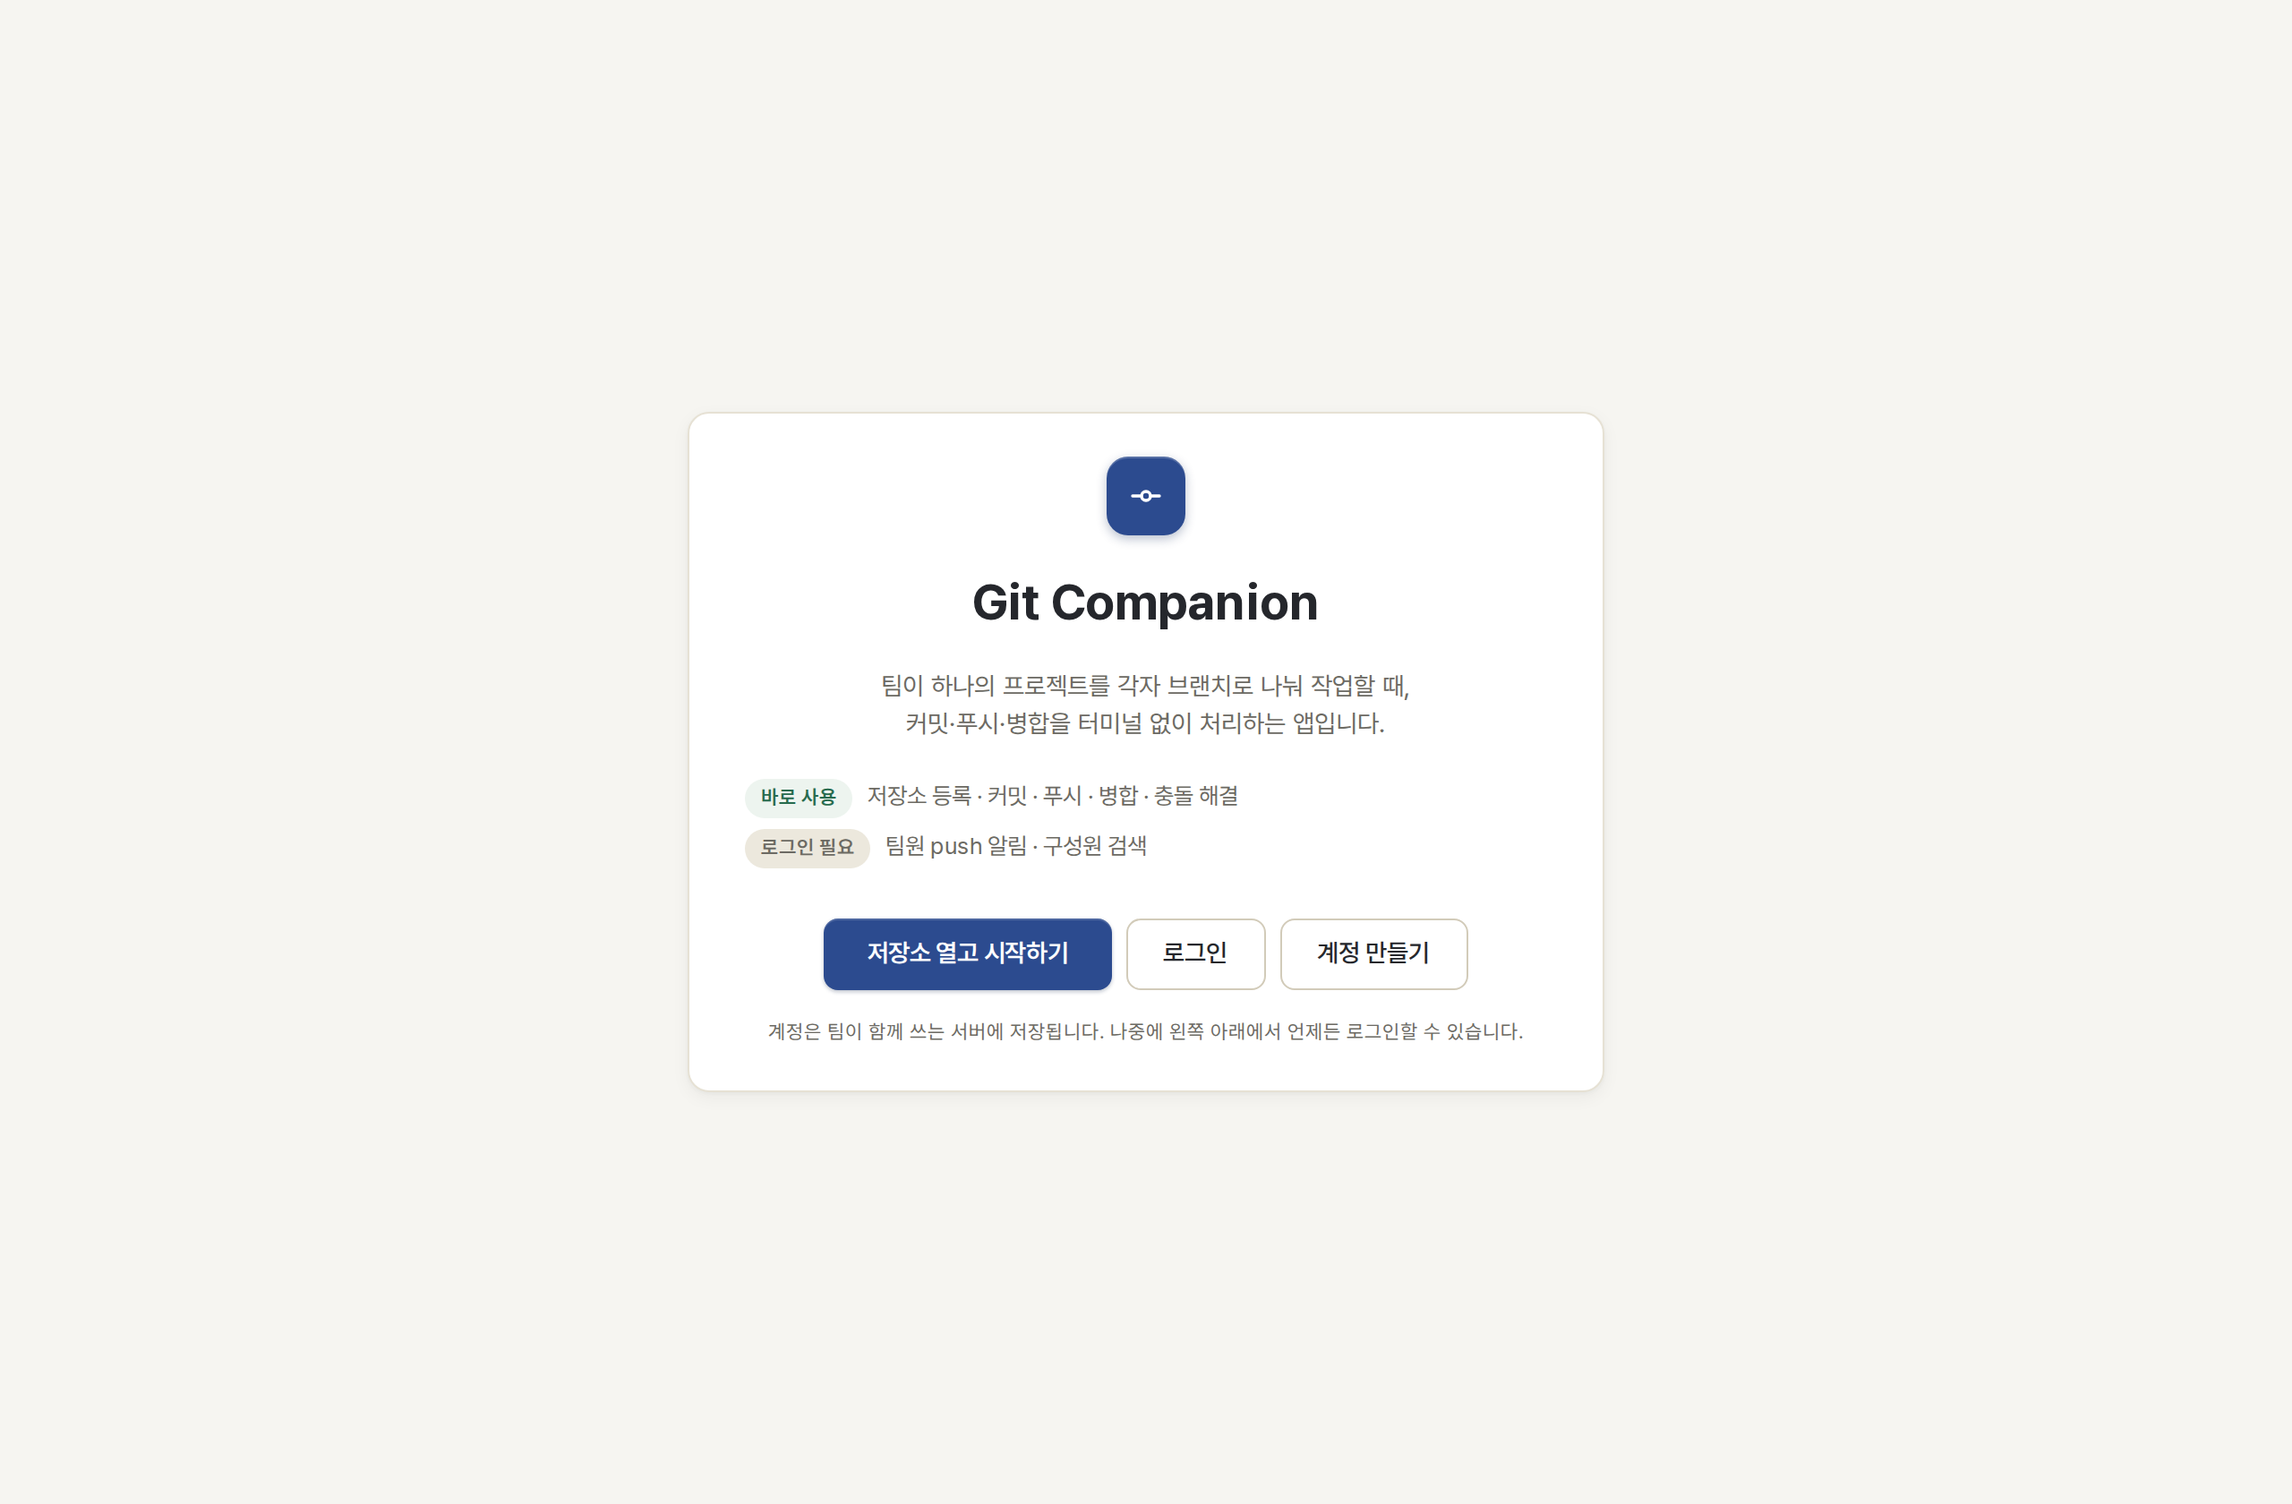
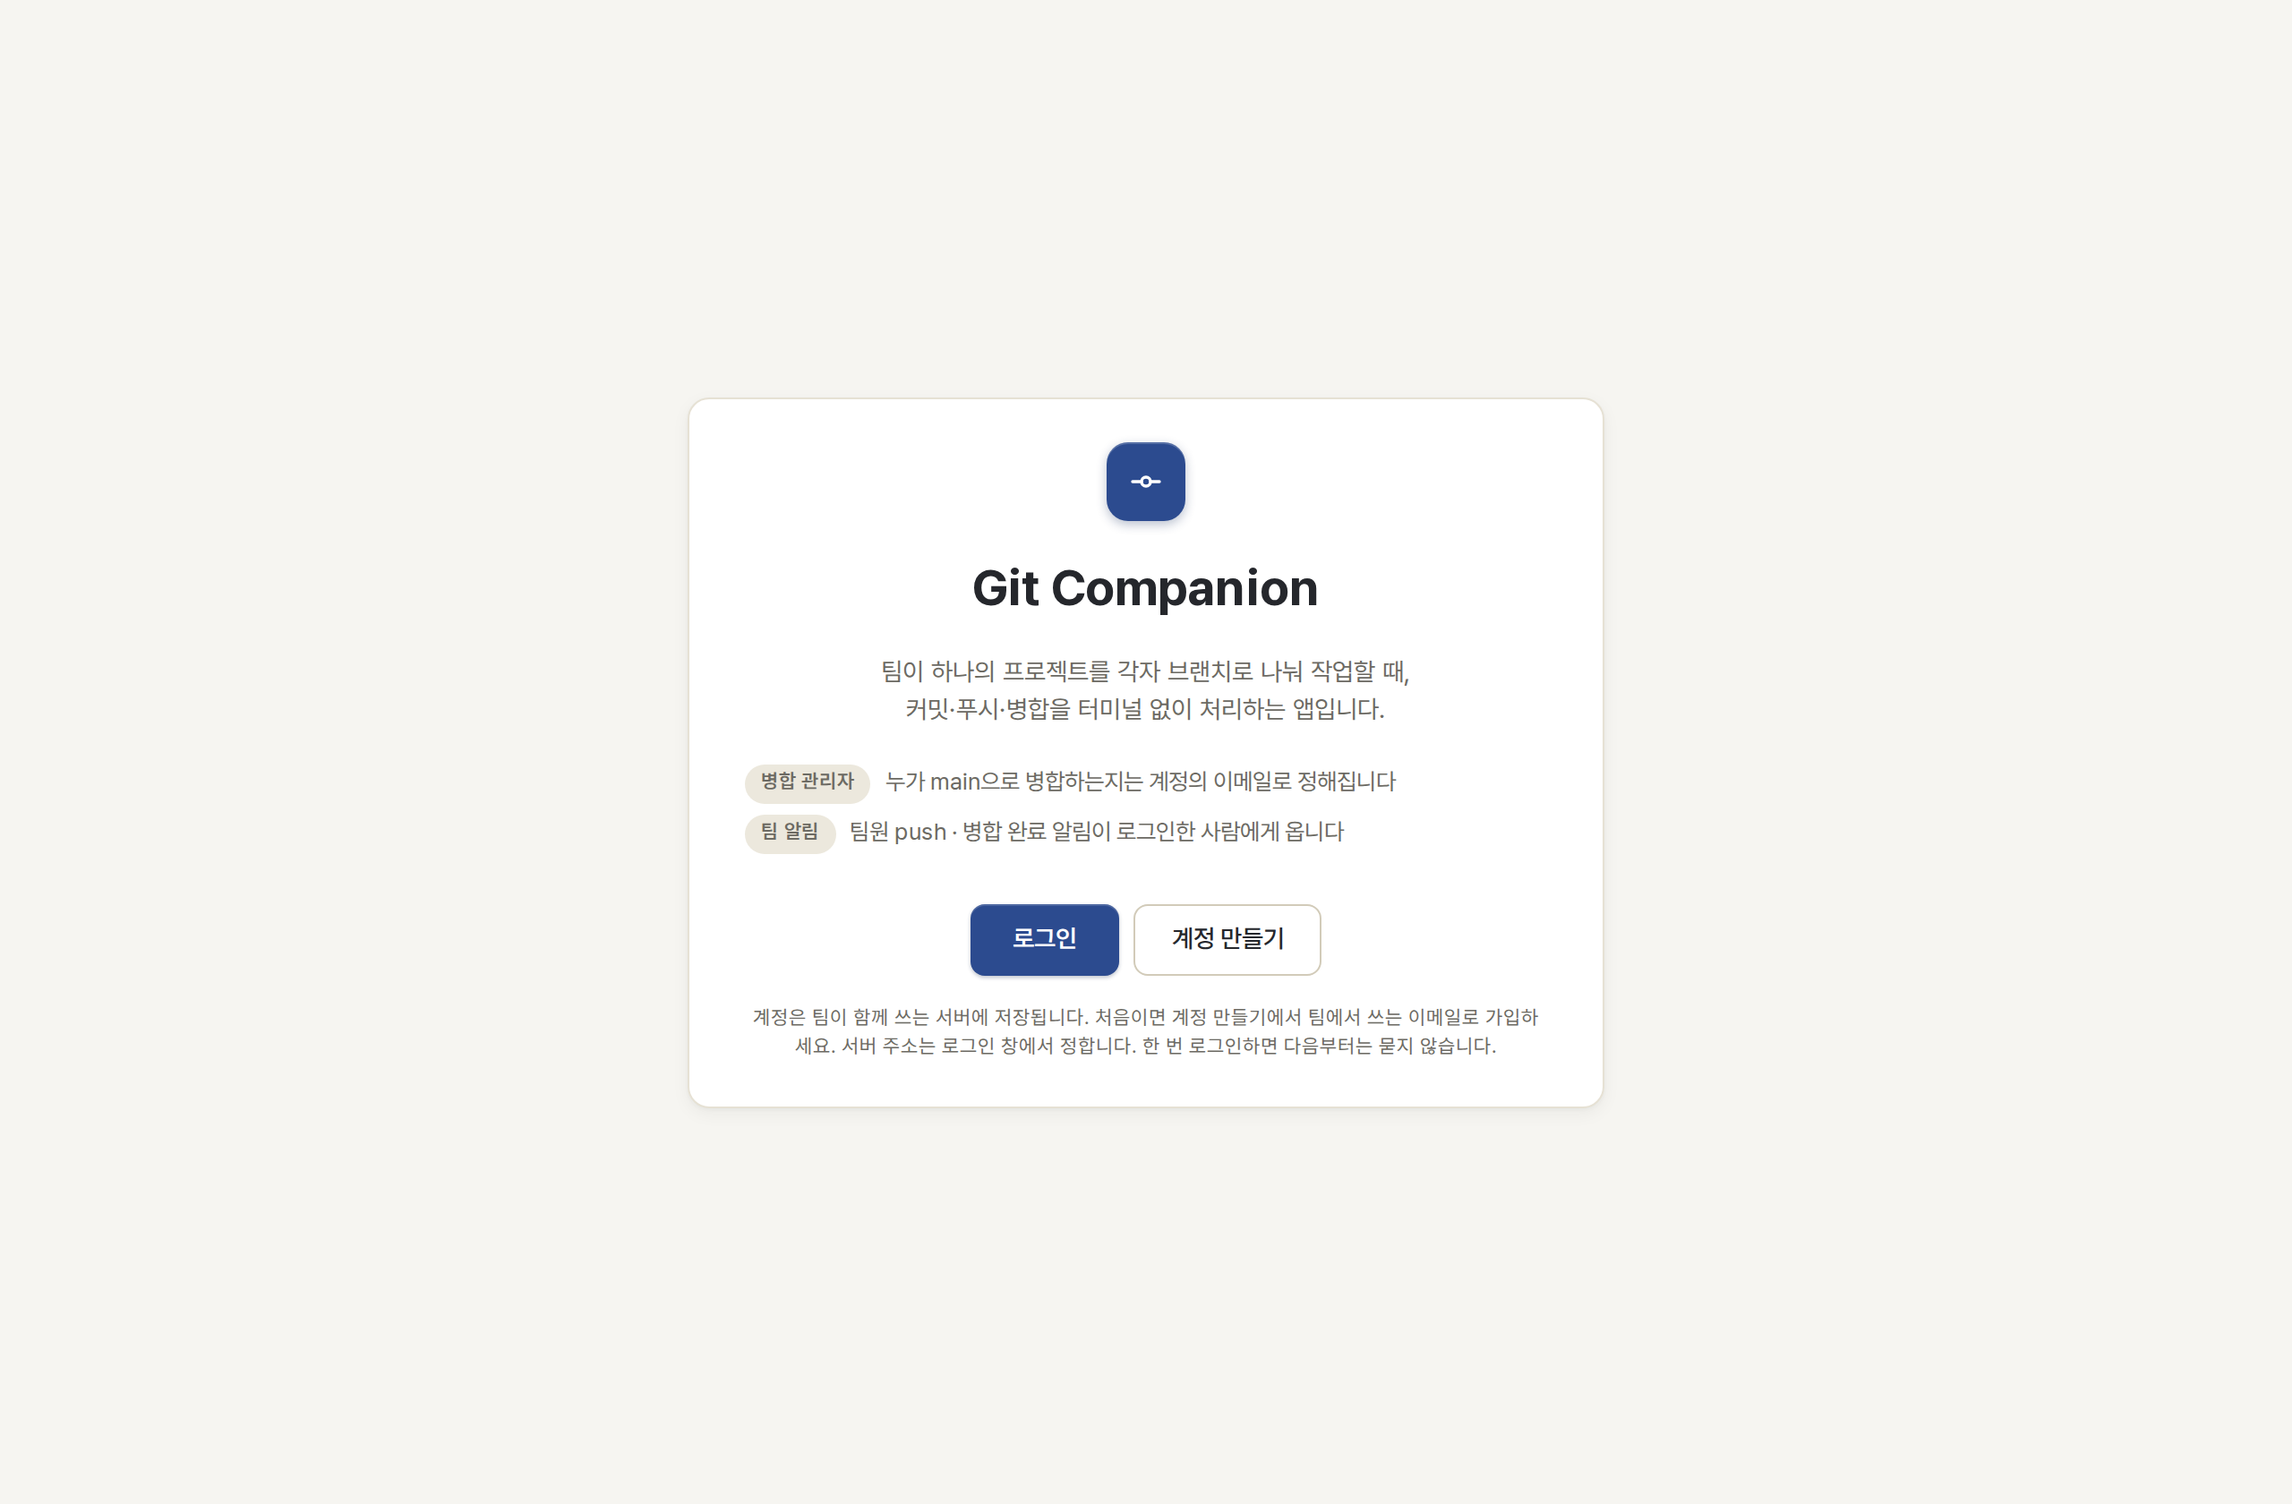
앱을 켜면 로그인 필수 — "저장소 열고 시작하기" 우회 제거
- app.ts: 세션이 없으면 언제나 시작(로그인) 화면. localStorage 건너뛰기 플래그와
  시작하기 버튼 제거, 로그인이 왜 필요한지(병합 관리자 판정·팀 알림이 계정 이메일
  기준) 한 줄 설명. 한 번 로그인하면 토큰이 남아 재시작·오프라인에도 유지.
- TeamPanel 로그아웃 안내 문구, README(0. 처음 열면, 로그인·계정), WORKFLOW(0/0-1)
  를 로그인 필수 기준으로 고치고 01-welcome.png 재촬영.
- Playwright 확인: 게이트에 시작하기 버튼/사이드바 없음, 로그인 → 홈, 새로 고침
  후 로그인 유지.

Changed region(s): [[0.3125, 0.3405, 0.6875, 0.7429], [0.4688, 0.2786, 0.5312, 0.3095]]

diff --git a/ui/lib/app.ts b/ui/lib/app.ts
@@ -286,33 +286,11 @@ export async function createApp(root: HTMLElement) {
 
   // ── 시작 화면 ────────────────────────────────────────────────────────────
   //
-  // 로그인은 **선택**이다. 예전에는 로그인하지 않으면 여기서 더 나아갈 수
-  // 없었는데, 계정이 팀 서버로 옮겨간 뒤에는 그 벽이 곧 "FastAPI 서버를 직접
-  // 띄워야 앱을 열 수 있다"는 뜻이 됐다. 처음 git 을 쓰는 사람에게는 사실상
-  // 사용 불가다.
-  //
-  // 커밋·푸시·병합·충돌 해결은 서버 없이 전부 동작한다. 계정이 실제로 필요한
-  // 것은 팀 알림과 구성원 검색뿐이므로, 그때 그 자리에서 로그인을 권한다.
-  const SKIP_LOGIN_KEY = "gc-skip-login";
-
-  function hasDismissedLogin(): boolean {
-    try {
-      return localStorage.getItem(SKIP_LOGIN_KEY) === "1";
-    } catch {
-      // 저장소를 못 쓰는 환경(사생활 보호 모드 등)에서도 앱은 열려야 한다.
-      return false;
-    }
-  }
-  function dismissLogin() {
-    try {
-      localStorage.setItem(SKIP_LOGIN_KEY, "1");
-    } catch {
-      /* 이번 실행에만 적용된다 */
-    }
-    skippedThisRun = true;
-  }
-  let skippedThisRun = false;
-
+  // 로그인은 **필수**다. 이 앱은 팀이 함께 쓰는 도구라 "누가 병합 관리자인가",
+  // "이 push 알림은 누구 것인가"가 전부 계정(이메일)으로 판정된다. 로그인 없이
+  // 들어오면 관리자 게이트가 통째로 비어 보이고 알림도 오지 않아, 팀원이
+  // "앱이 고장났다"고 느끼는 경우가 더 많았다. 한 번 로그인하면 토큰이 로컬에
+  // 남으므로 재시작·오프라인에서도 다시 묻지 않는다.
   function renderWelcome() {
     shell.innerHTML = "";
     const gate = document.createElement("div");
@@ -337,43 +315,32 @@ export async function createApp(root: HTMLElement) {
       "팀이 하나의 프로젝트를 각자 브랜치로 나눠 작업할 때,\n커밋·푸시·병합을 터미널 없이 처리하는 앱입니다.";
     plaque.appendChild(desc);
 
-    // 무엇이 로그인 없이 되고, 무엇이 안 되는지 미리 알려 준다.
-    const table = document.createElement("div");
-    table.className = "flex flex-col gap-1.5 text-display-sm w-full max-w-md mt-1";
+    // 왜 로그인이 필요한지 한 줄로 — 벽처럼 느껴지지 않게 이유를 먼저 말한다.
+    const why = document.createElement("div");
+    why.className = "flex flex-col gap-1.5 text-display-sm w-full max-w-md mt-1";
     const rows: [string, string][] = [
-      ["바로 사용", "저장소 등록 · 커밋 · 푸시 · 병합 · 충돌 해결"],
-      ["로그인 필요", "팀원 push 알림 · 구성원 검색"],
+      ["병합 관리자", "누가 main으로 병합하는지는 계정의 이메일로 정해집니다"],
+      ["팀 알림", "팀원 push · 병합 완료 알림이 로그인한 사람에게 옵니다"],
     ];
     for (const [tag, what] of rows) {
       const row = document.createElement("div");
       row.className = "flex items-start gap-2 text-left";
       const chip = document.createElement("span");
-      chip.className =
-        "gc-badge shrink-0 " + (tag === "바로 사용" ? "gc-badge--success" : "gc-badge--muted");
+      chip.className = "gc-badge gc-badge--muted shrink-0";
       chip.textContent = tag;
       row.appendChild(chip);
       const txt = document.createElement("span");
       txt.className = "text-[color:var(--color-ink-muted)]";
       txt.textContent = what;
       row.appendChild(txt);
-      table.appendChild(row);
+      why.appendChild(row);
     }
-    plaque.appendChild(table);
+    plaque.appendChild(why);
 
     const btnRow = document.createElement("div");
     btnRow.className = "flex flex-wrap items-center justify-center gap-2 mt-3";
-    const start = document.createElement("button");
-    start.className = "gc-button-primary";
-    start.id = "gate-start-btn";
-    start.textContent = "저장소 열고 시작하기";
-    start.addEventListener("click", () => {
-      dismissLogin();
-      page = { kind: "home" };
-      rerender();
-    });
-    btnRow.appendChild(start);
     const btn = document.createElement("button");
-    btn.className = "gc-button-secondary";
+    btn.className = "gc-button-primary";
     btn.id = "gate-login-btn";
     btn.textContent = "로그인";
     btn.addEventListener("click", () => openAccountModal());
@@ -389,7 +356,7 @@ export async function createApp(root: HTMLElement) {
     const note = document.createElement("p");
     note.className = "text-display-xs text-[color:var(--color-ink-muted)] max-w-md";
     note.textContent =
-      "계정은 팀이 함께 쓰는 서버에 저장됩니다. 나중에 왼쪽 아래에서 언제든 로그인할 수 있습니다.";
+      "계정은 팀이 함께 쓰는 서버에 저장됩니다. 처음이면 계정 만들기에서 팀에서 쓰는 이메일로 가입하세요. 서버 주소는 로그인 창에서 정합니다. 한 번 로그인하면 다음부터는 묻지 않습니다.";
     plaque.appendChild(note);
 
     gate.appendChild(plaque);
@@ -405,9 +372,8 @@ export async function createApp(root: HTMLElement) {
       shell.appendChild(renderPageLoadingFill());
       return;
     }
-    // 처음 실행에서 한 번만 소개 화면을 보여 준다. "시작하기"를 누른 뒤에는
-    // 로그아웃 상태여도 곧바로 앱으로 들어간다.
-    if (session === null && !hasDismissedLogin() && !skippedThisRun) {
+    // 로그인하지 않았으면 언제나 시작 화면 — 로그아웃해도 여기로 돌아온다.
+    if (session === null) {
       renderWelcome();
       return;
     }

diff --git a/ui/components/TeamPanel.ts b/ui/components/TeamPanel.ts
@@ -40,7 +40,7 @@ function signInInvite(): HTMLElement {
   desc.className = "text-display-sm text-[color:var(--color-ink-muted)] whitespace-pre-line";
   desc.textContent =
     "팀원이 브랜치를 push했을 때 알림을 받으려면 누가 누구인지 서버가 알아야 합니다.\n" +
-    "커밋·푸시·병합·충돌 해결은 로그인 없이도 그대로 동작하니, 혼자 쓰는 중이라면 이 화면은 건너뛰어도 됩니다.";
+    "왼쪽 아래 내 이름 자리에서 로그인하면 이 화면이 곧바로 채워집니다.";
   box.appendChild(desc);
   const row = document.createElement("div");
   row.className = "flex gap-2";

diff --git a/README.md b/README.md
@@ -30,16 +30,18 @@ git clone https://github.com/senghan1992/team-git.git
 사람)과 **일반 팀원**. 아래 순서 그대로 따라 하면 됩니다. 더 깊은 내용은
 [docs/WORKFLOW.md](docs/WORKFLOW.md)에 다 있습니다.
 
-### 0. 처음 열면 — 로그인은 선택
+### 0. 처음 열면 — 로그인
 
 ![첫 실행 화면](docs/images/01-welcome.png)
 
-**저장소 열고 시작하기**를 누르면 커밋·푸시·병합 전부 바로 쓸 수 있습니다.
-로그인은 **팀 알림**(push 알림, 동기화 알림)에만 필요합니다. 팀으로 쓸 거라면
-아래 **0-1. 팀 서버 띄우기**를 한 사람이 끝낸 뒤, 각자 **계정 만들기**로
-가입하세요. 로그인 창의 **서버 주소**에 그 컴퓨터 주소(`http://서버IP:8000`)를
-넣으면 **연결 확인**이 바로 됩니다. **이메일이 곧 팀 안의 신분**입니다 — 병합
-관리자 지정이 이메일로 매칭되므로 팀에서 쓰는 이메일로 가입하세요.
+앱을 켜면 로그인 화면이 나옵니다. **로그인해야 들어갈 수 있습니다** — 누가
+병합 관리자인지, 이 push 알림이 누구 것인지가 전부 계정의 이메일로 정해지기
+때문입니다. 한 번 로그인하면 재시작·오프라인에도 유지되고 다시 묻지 않습니다.
+
+아래 **0-1. 팀 서버 띄우기**를 한 사람이 끝낸 뒤, 각자 로그인 창의 **서버
+주소**에 그 컴퓨터 주소(`http://서버IP:8000`)를 넣고(**연결 확인**이 바로 됩니다)
+**계정 만들기**로 가입하세요. **이메일이 곧 팀 안의 신분**입니다 — 병합 관리자
+지정이 이메일로 매칭되므로 팀에서 쓰는 이메일로 가입하세요.
 
 ### 0-1. 팀 서버 띄우기 — 팀에서 한 사람만, 한 번만
 
@@ -176,9 +178,10 @@ py -3 -m venv .venv; .\.venv\Scripts\pip install -e ".[dev]"
 
 ## 로그인 · 계정
 
-**로그인은 선택입니다.** 저장소 등록·커밋·푸시·병합·충돌 해결·AI 자동 병합은
-로그인 없이 그대로 동작하고, 팀원 push 알림과 구성원 검색만 계정이 필요합니다.
-첫 화면에서 **저장소 열고 시작하기**를 누르면 바로 쓸 수 있습니다.
+**앱을 켜면 먼저 로그인합니다.** 병합 관리자 판정, 구성원 목록, 알림 수신자가
+모두 계정의 이메일로 매칭되기 때문에 로그인 없이는 들어갈 수 없습니다. 한 번
+로그인하면 토큰이 이 컴퓨터에 남아 재시작·오프라인에도 유지됩니다. 로그아웃하면
+다시 로그인 화면으로 돌아갑니다.
 
 계정은 **팀 서버의 SQLite**(`users` 테이블)에 저장됩니다. 그래서 어느 컴퓨터에서든
 같은 아이디로 로그인하고, 팀원 검색(`.gpconfig` 구성원 추가)도 이 컴퓨터에서

diff --git a/docs/WORKFLOW.md b/docs/WORKFLOW.md
@@ -16,33 +16,23 @@
 관리자는 `.gpconfig`의 `merge_managers`에서 **브랜치별로** 지정한다
 (저장소 → **설정** 탭). 지정하지 않으면 누구나 병합할 수 있다.
 
-### 0. 로그인은 선택이다
+### 0. 앱을 열면 먼저 로그인한다
 
-앱을 처음 열면 소개 화면이 나오고, **로그인하지 않고도 바로 쓸 수 있다.**
+앱을 켜면 **로그인 화면**이 나오고, 로그인해야 안으로 들어갈 수 있다. 이 앱은
+팀이 함께 쓰는 도구라 "누가 병합 관리자인가", "이 push 알림은 누구 것인가"가
+전부 계정의 **이메일**로 판정되기 때문이다. 로그인은 **한 번만** 하면
+재시작·오프라인에도 유지되고, 로그아웃하면 다시 이 화면으로 돌아온다.
 
-| | 로그인 없이 | 로그인 필요 |
-| --- | --- | --- |
-| 저장소 등록 · 커밋 · 푸시 · 풀 | ✅ | |
-| 병합 · 충돌 해결 · AI 자동 병합 | ✅ | |
-| `.gpconfig` 병합 대상/관리자 설정 | ✅ | |
-| 팀원 push 알림 받기 | | ✅ |
-| 구성원 이름/이메일로 검색 | | ✅ |
-
-혼자 쓰거나 처음 둘러보는 중이라면 **저장소 열고 시작하기**를 누르면 된다.
-왼쪽 아래에 "로그인 안 됨 — 로그인하기"가 남아 있어 언제든 로그인할 수 있다.
-
-### 0-1. 팀으로 쓸 때 계정 만들기
+### 0-1. 계정 만들기
 
 계정은 **팀 서버**에 저장되므로, 팀에서 서버 하나를 띄우고 각자 회원가입한다.
+서버는 팀에서 한 사람이 띄운다 —
+[README의 "0-1. 팀 서버 띄우기"](../README.md#0-1-팀-서버-띄우기--팀에서-한-사람만-한-번만)
+를 그대로 따르면 된다.
 
-```bash
-cd backend
-python3.11 -m venv .venv && ./.venv/bin/pip install -e ".[dev]"
-./.venv/bin/uvicorn app.main:app --port 8000
-```
-
-앱을 처음 열면 로그인 화면이 나온다. **서버 주소**에 위 주소를 넣고
-**회원가입** → 이름·이메일·아이디·비밀번호를 등록하면 바로 로그인된다.
+로그인 화면의 **서버 주소**에 그 주소(`http://서버IP:8000`)를 넣고 **연결
+확인**이 되면, **계정 만들기** → 이름·이메일·아이디·비밀번호를 등록하면 바로
+로그인된다.
 
 **이메일이 곧 팀 안의 신분이다.** 병합 관리자 지정과 구성원 목록(`.gpconfig`),
 알림 수신자가 모두 이메일로 매칭되므로, 팀에서 쓰는 이메일로 가입한다.
